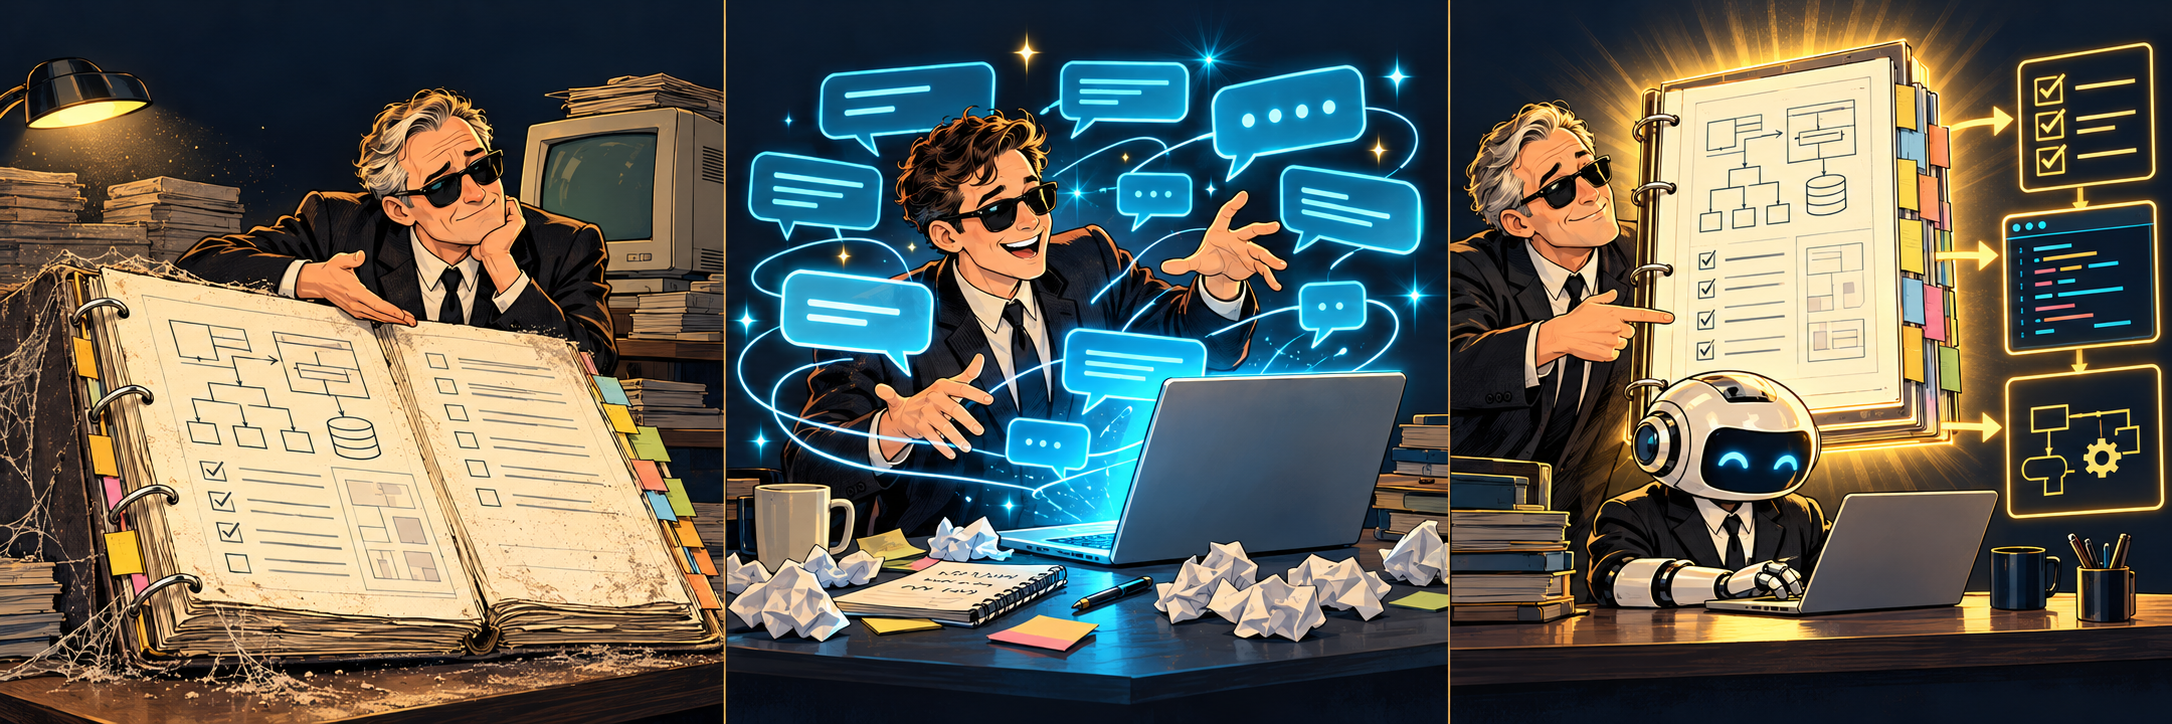
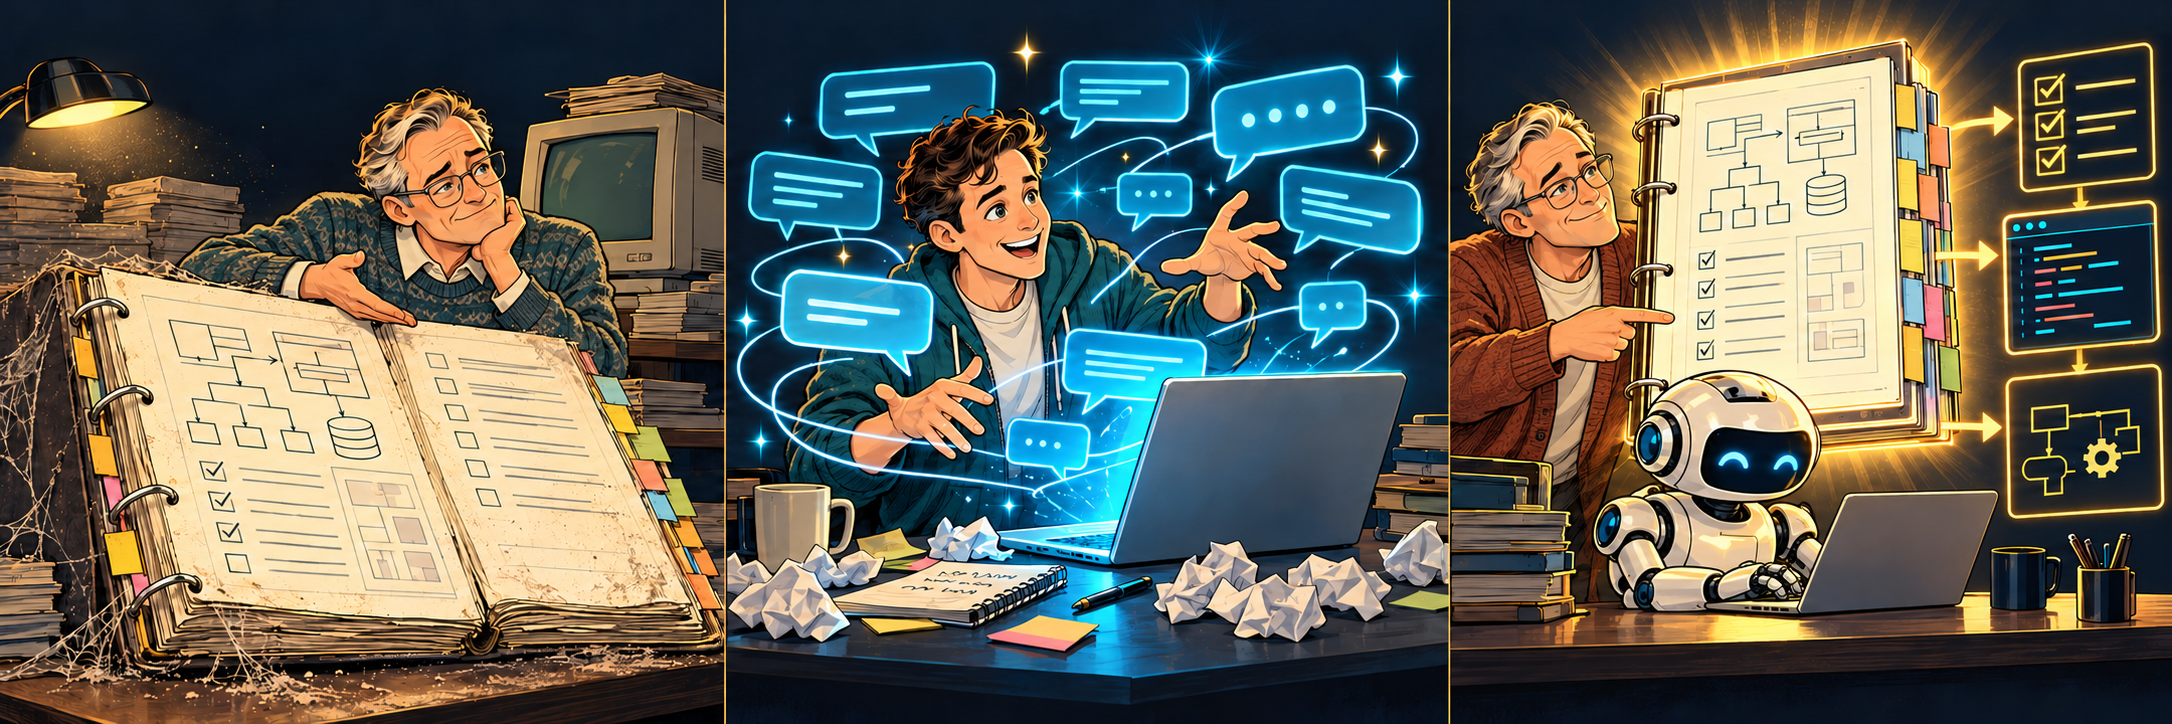
docs(sdd): use era-appropriate developer attire

diff --git a/sdlc/specification-driven-development/slides/slides.md b/sdlc/specification-driven-development/slides/slides.md
@@ -174,7 +174,7 @@ transition: fade-out
 <div style="margin: 0.75rem 0 0.5rem;">
   <img
     src="/images/specification-old-busted-hotness.png"
-    alt="Three scenes with fictional agents in black suits and sunglasses: a dusty specification binder, dazzling but tangled AI chat prompts, then the specification returning as a digital document that guides an AI assistant through tests and code."
+    alt="Three scenes with developers in era-appropriate casual clothes: an older programmer in a patterned sweater beside a dusty specification binder, a young programmer in a hoodie surrounded by AI chat prompts, then an older developer in a cardigan using the specification to guide an AI assistant through tests and code."
     style="display: block; width: 100%; height: auto;"
   />
 </div>
@@ -203,7 +203,7 @@ transition: fade-out
 
 <!--
 
-Visual riff on the Men in Black old-gear/new-gear joke. These are fictional agents, not depictions of the actors. The third label is the talk's punchline: "old busted hotness."
+Verbal riff on the Men in Black old-gear/new-gear joke, illustrated with ordinary developers in clothes appropriate to their era and age. The third label is the talk's punchline: "old busted hotness."
 
 Old busted: the specification we just opened. Useful structure, but maintaining it by hand was expensive. The dusty binder is the failure mode, not the goal.
 
